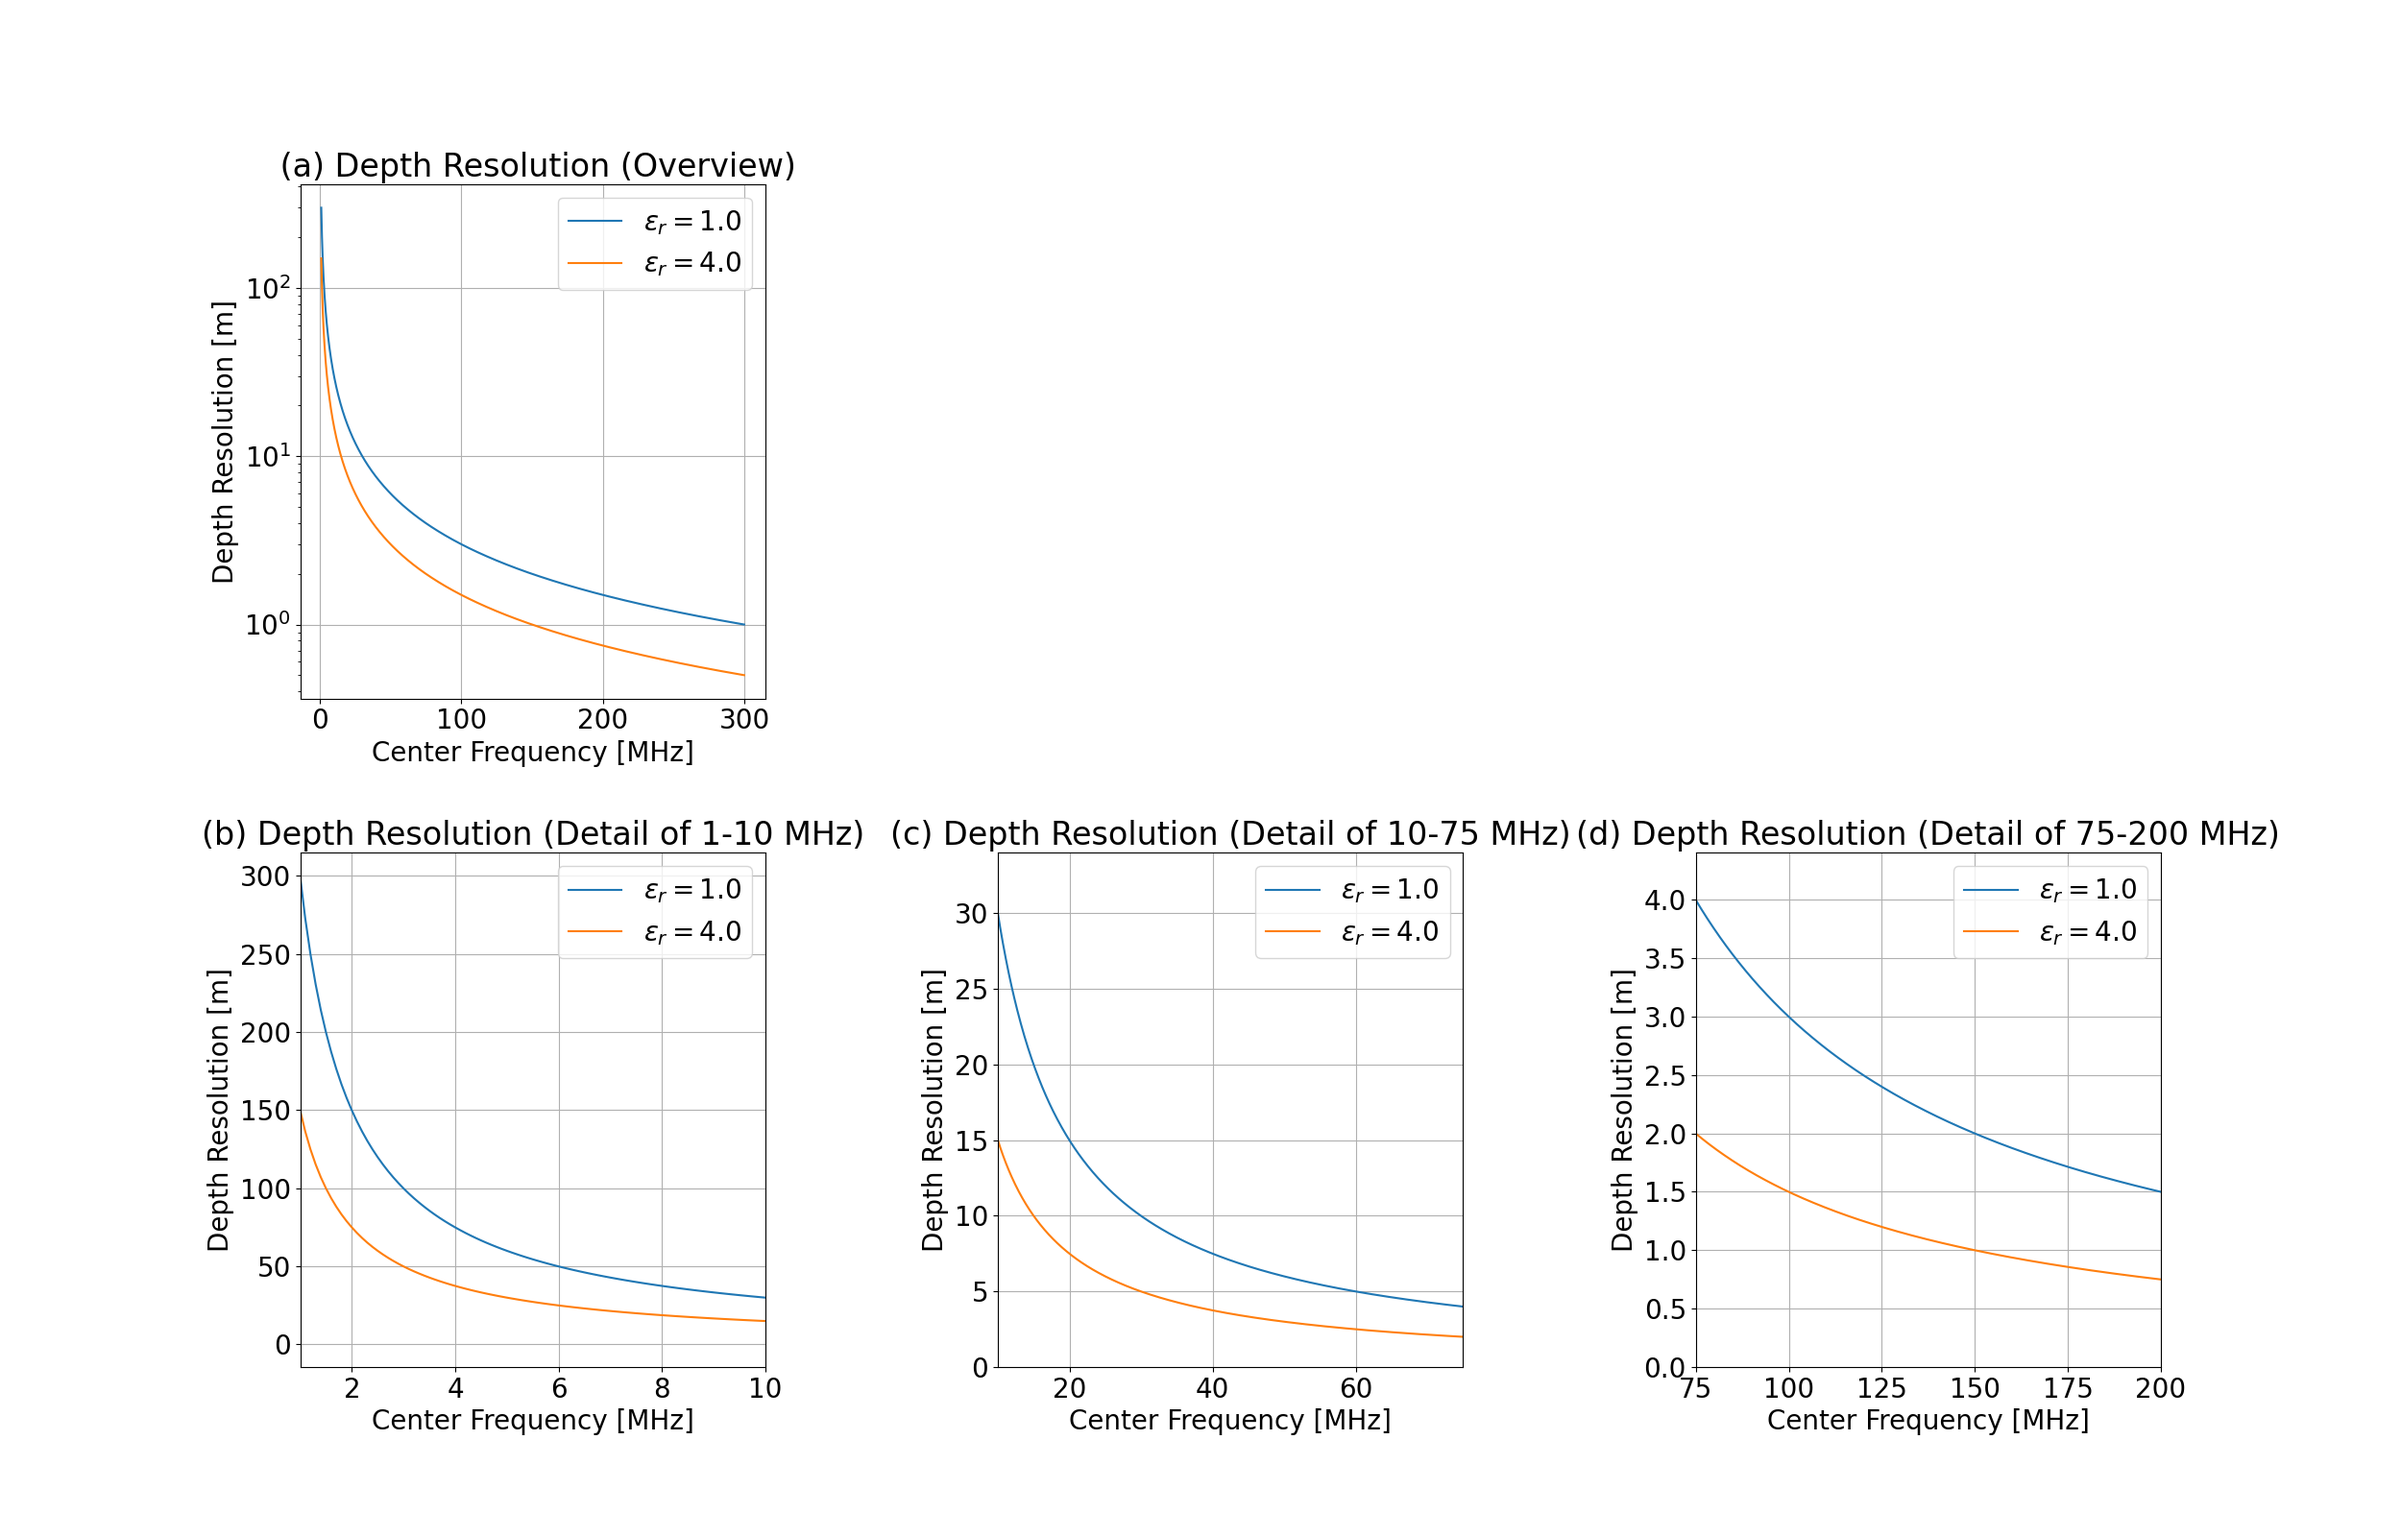
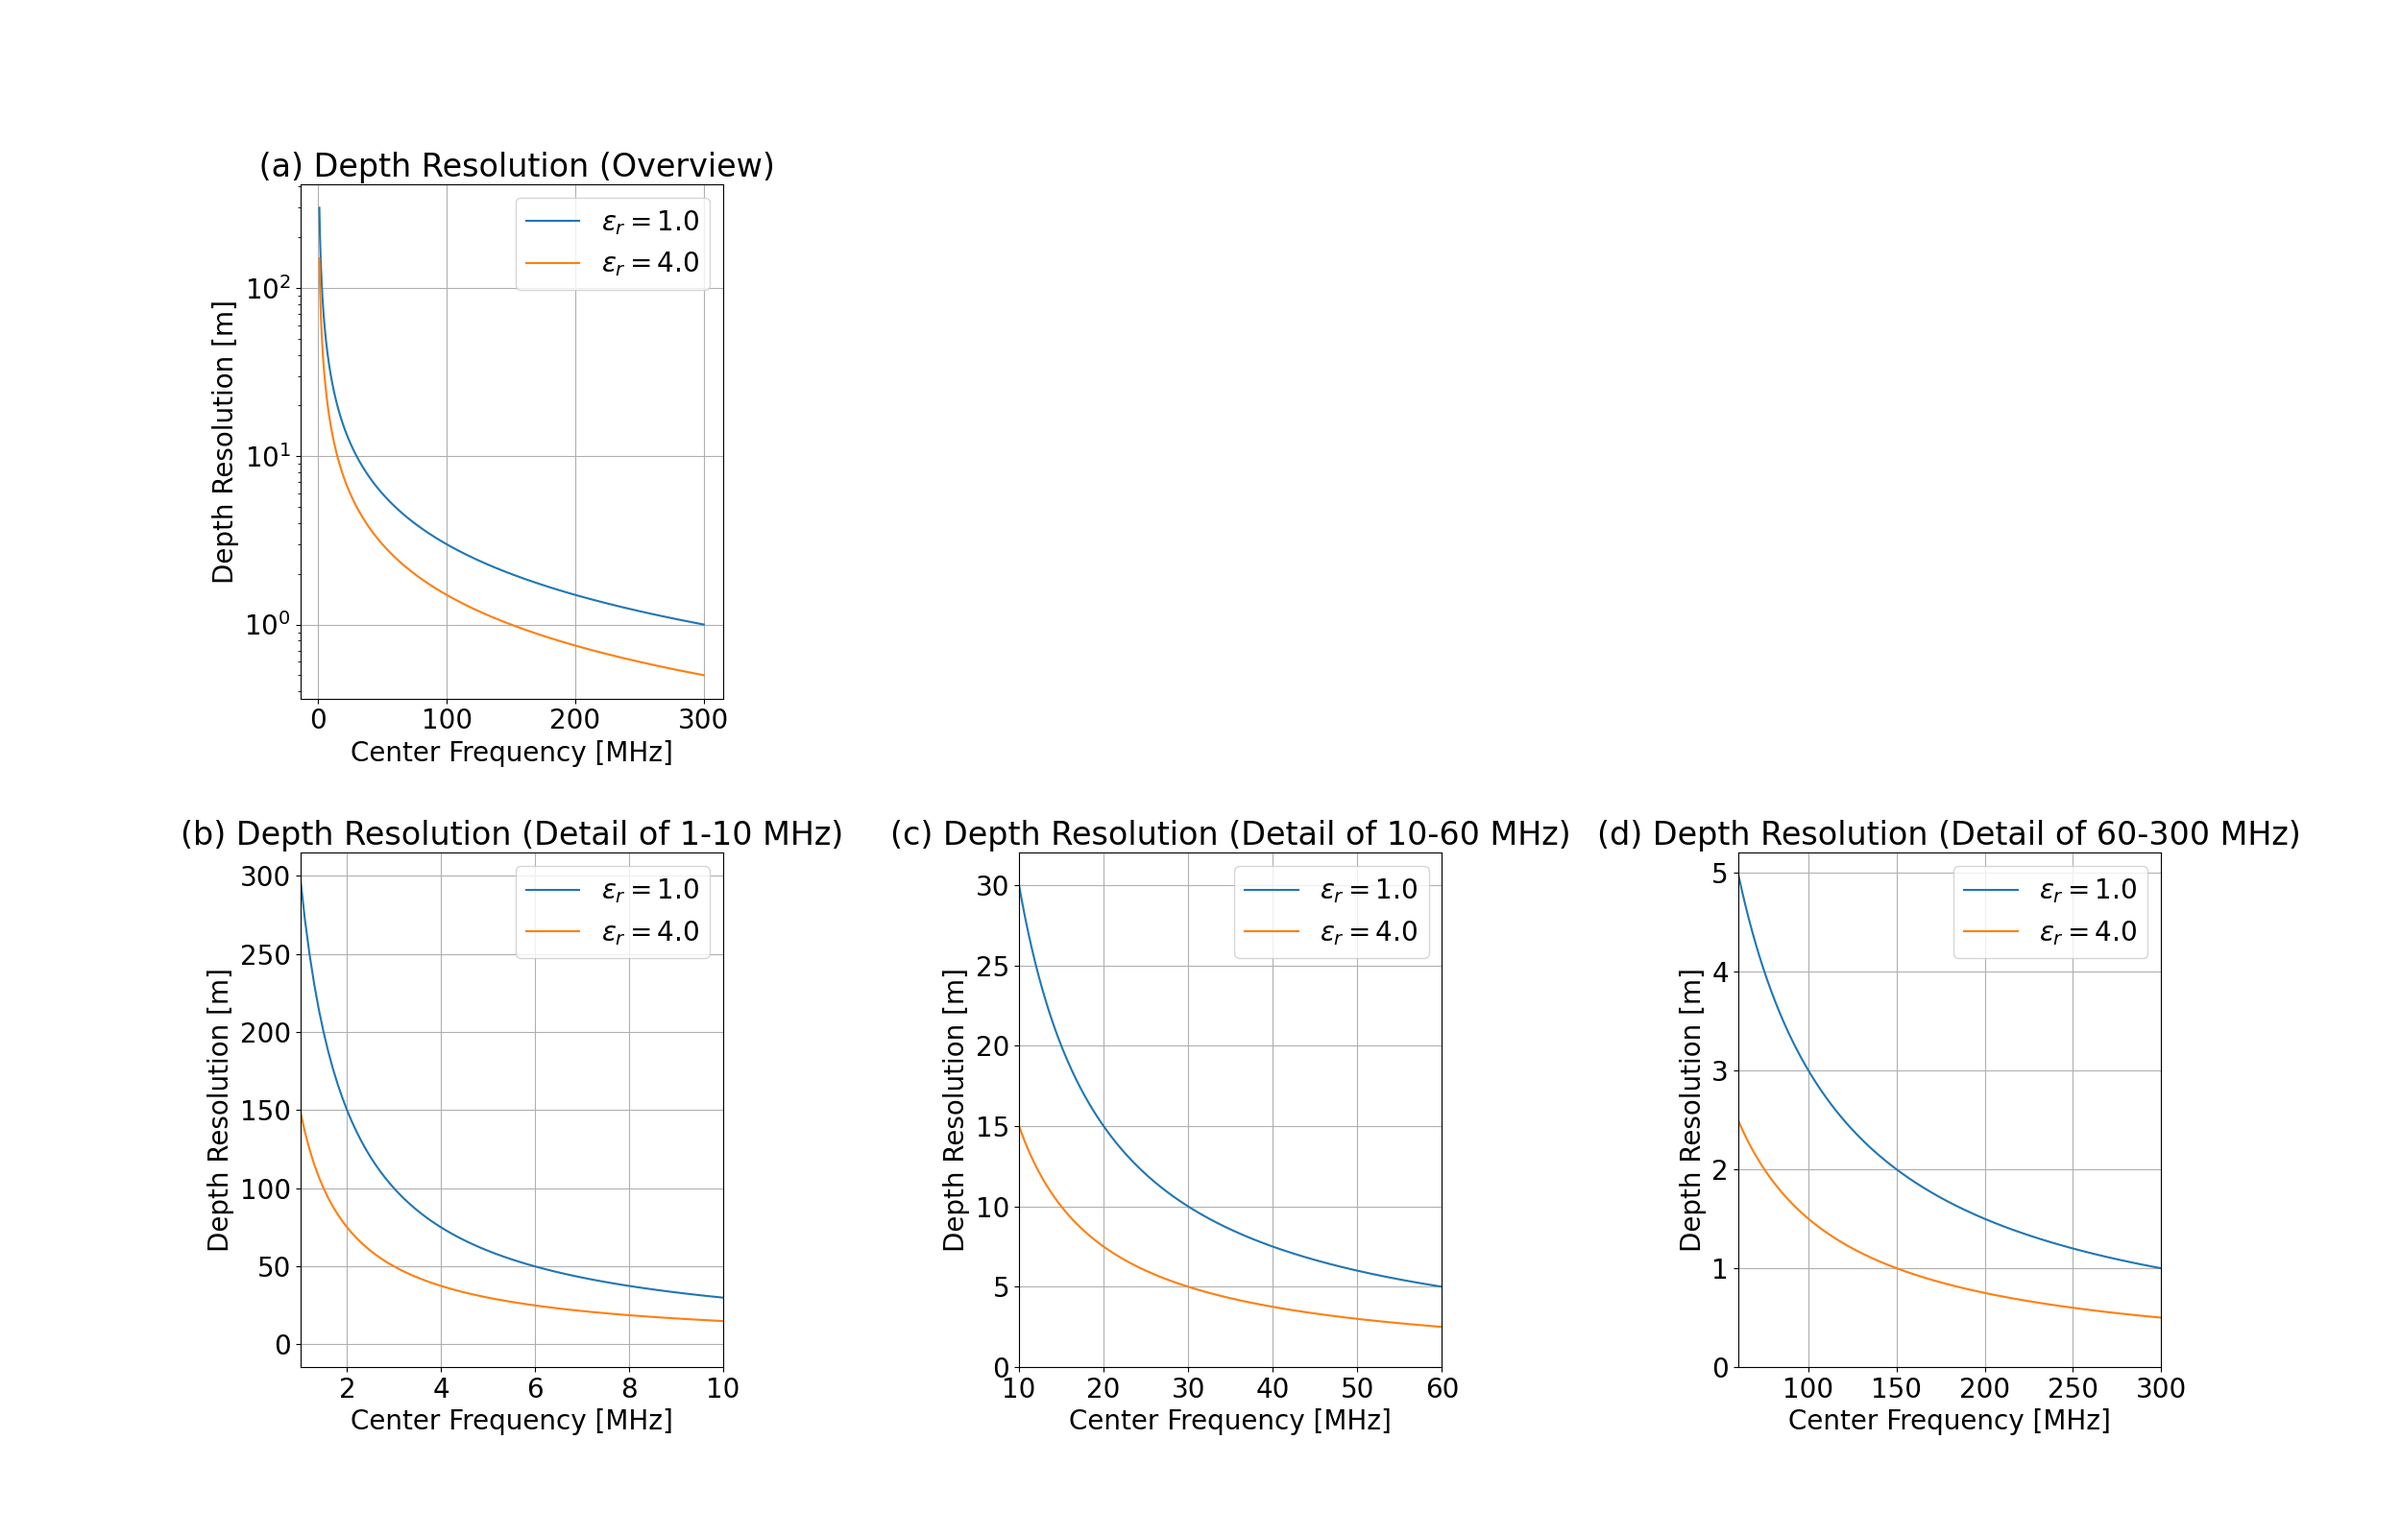
wspace変更

diff --git a/depth_resolution.py b/depth_resolution.py
@@ -21,7 +21,7 @@ dR3 = c / (2*np.sqrt(epsilon3) * f0 *10**6 * 0.5)
 
 #描画
 plt.figure(figsize=(25, 16))
-plt.subplots_adjust(wspace=0.5)
+plt.subplots_adjust(wspace=0.7)
 plt.subplots_adjust(hspace=0.3)
 
 # ----1枚目----
@@ -58,12 +58,12 @@ plt.subplot(2, 3, 5)
 plt.plot(f0, dR1, label=r'$\varepsilon _r = 1.0$')
 plt.plot(f0, dR2, label=r'$\varepsilon_r = 4.0$')
 
-plt.title('(c) Depth Resolution (Detail of 10-75 MHz)', fontsize=24)
+plt.title('(c) Depth Resolution (Detail of 10-60 MHz)', fontsize=24)
 plt.xlabel('Center Frequency [MHz]', fontsize=20)
 plt.ylabel('Depth Resolution [m]', fontsize=20)
 plt.tick_params(labelsize=20)
-plt.xlim(10, 75)
-plt.ylim(0, 34)
+plt.xlim(10, 60)
+plt.ylim(0, 32)
 plt.grid()
 plt.legend(fontsize='20')
 
@@ -73,12 +73,12 @@ plt.subplot(2, 3, 6)
 plt.plot(f0, dR1, label=r'$\varepsilon _r = 1.0$')
 plt.plot(f0, dR2, label=r'$\varepsilon_r = 4.0$')
 
-plt.title('(d) Depth Resolution (Detail of 75-200 MHz)', fontsize=24)
+plt.title('(d) Depth Resolution (Detail of 60-300 MHz)', fontsize=24)
 plt.xlabel('Center Frequency [MHz]', fontsize=20)
 plt.ylabel('Depth Resolution [m]', fontsize=20)
 plt.tick_params(labelsize=20)
-plt.xlim(75, 200)
-plt.ylim(0, 4.4)
+plt.xlim(60, 300)
+plt.ylim(0, 5.2)
 plt.grid()
 plt.legend(fontsize='20')
 
